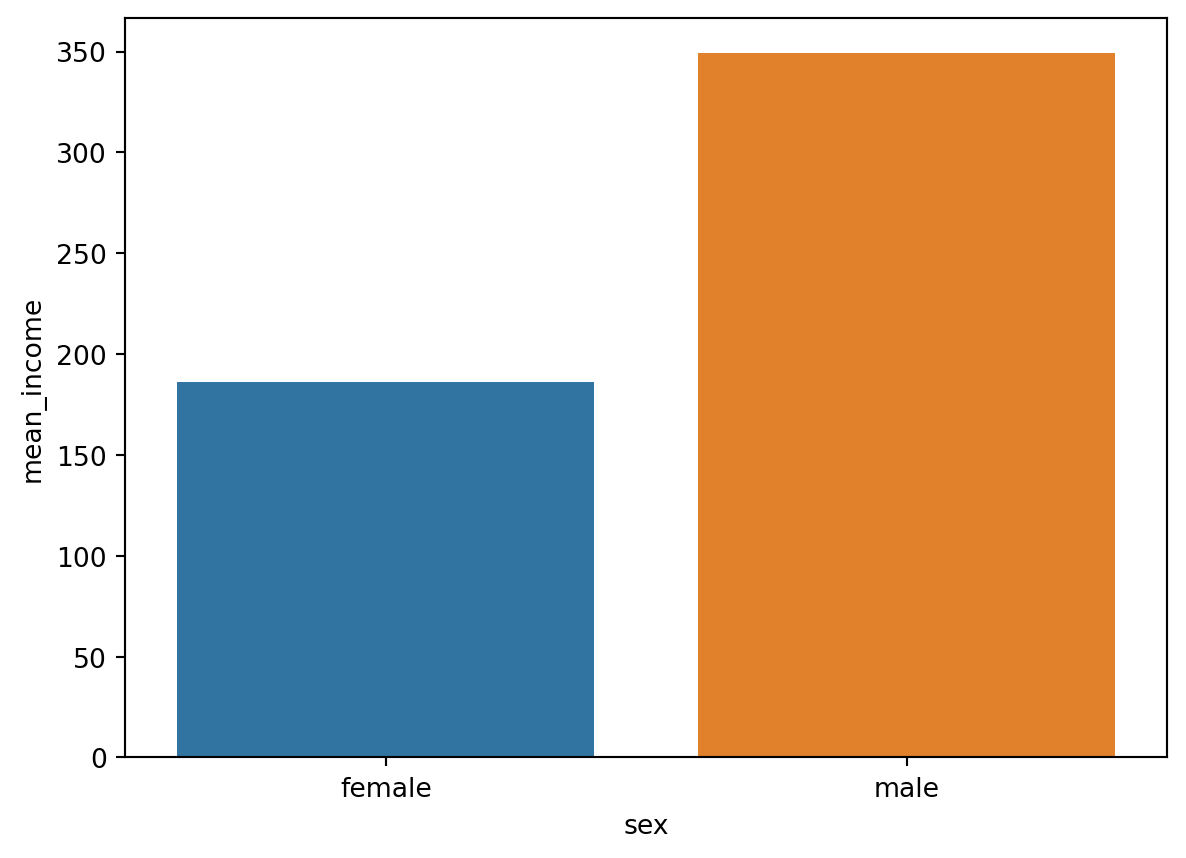
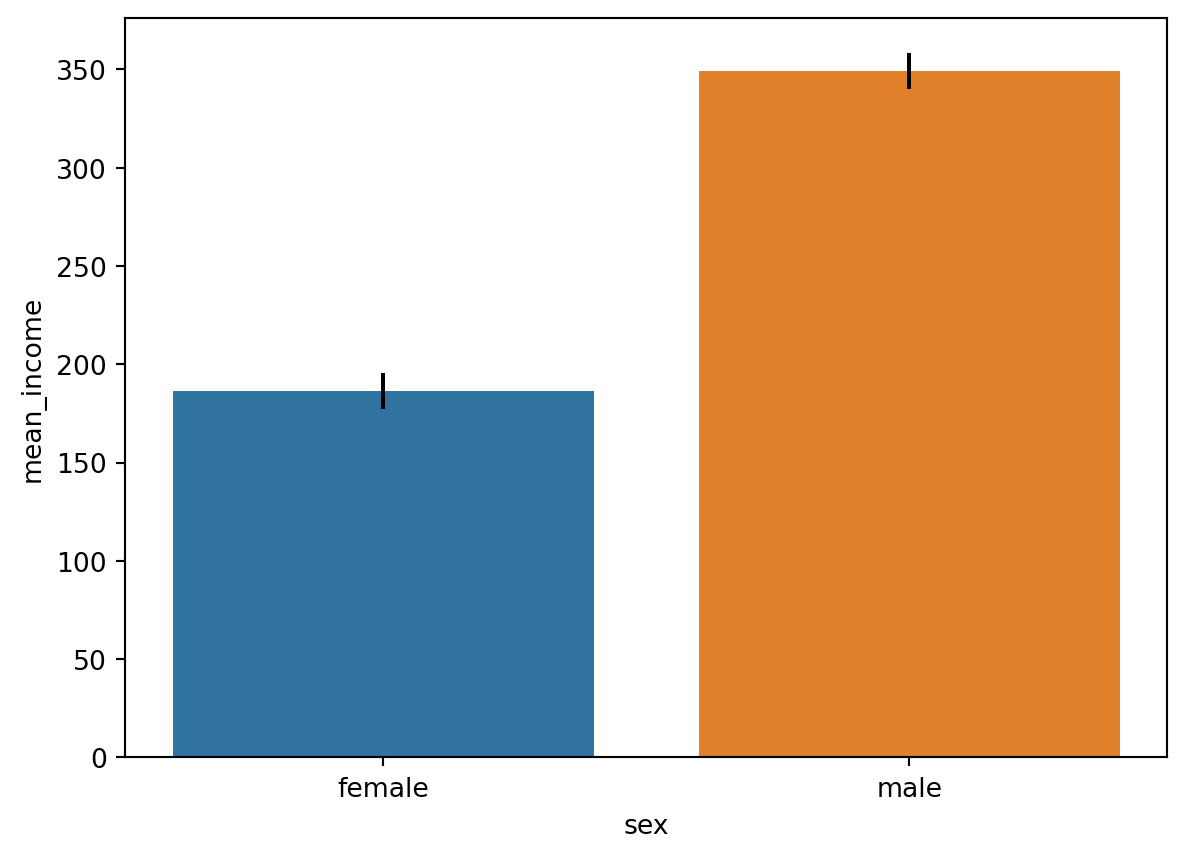
숙제에 신뢰구간 막대 표시

diff --git a/docs/posts/hw5/index.html b/docs/posts/hw5/index.html
@@ -59,7 +59,7 @@ pre > code.sourceCode > span > a:first-child::before { text-decoration: underlin
 </style>
 
 
-<script src="https://cdnjs.cloudflare.com/ajax/libs/jquery/3.5.1/jquery.min.js" integrity="sha512-bLT0Qm9VnAYZDflyKcBaQ2gg0hSYNQrJ8RilYldYQ1FxQYoCLtUjuuRuZo+fjqhx/qtq/1itJ0C2ejDxltZVFg==" crossorigin="anonymous"></script><script src="../../site_libs/quarto-nav/quarto-nav.js"></script>
+<script src="../../site_libs/quarto-nav/quarto-nav.js"></script>
 <script src="../../site_libs/quarto-nav/headroom.min.js"></script>
 <script src="../../site_libs/clipboard/clipboard.min.js"></script>
 <script src="../../site_libs/quarto-search/autocomplete.umd.js"></script>
@@ -102,12 +102,6 @@ pre > code.sourceCode > span > a:first-child::before { text-decoration: underlin
     "search-label": "Search"
   }
 }</script>
-<script src="https://cdnjs.cloudflare.com/ajax/libs/require.js/2.3.6/require.min.js" integrity="sha512-c3Nl8+7g4LMSTdrm621y7kf9v3SDPnhxLNhcjFJbKECVnmZHTdo+IRO05sNLTH/D3vA6u1X32ehoLC7WFVdheg==" crossorigin="anonymous"></script>
-
-
-
-<script type="application/javascript">define('jquery', [],function() {return window.jQuery;})</script>
-
 
 
 <link rel="stylesheet" href="../../styles.css">
@@ -200,7 +194,7 @@ pre > code.sourceCode > span > a:first-child::before { text-decoration: underlin
 
 
 
-<div id="d5b7b62e" class="cell" data-execution_count="1">
+<div id="4f84be93" class="cell" data-execution_count="1">
 <div class="sourceCode cell-code" id="cb1"><pre class="sourceCode python code-with-copy"><code class="sourceCode python"><span id="cb1-1"><a href="#cb1-1" aria-hidden="true" tabindex="-1"></a><span class="im">import</span> pandas <span class="im">as</span> pd</span>
 <span id="cb1-2"><a href="#cb1-2" aria-hidden="true" tabindex="-1"></a><span class="im">import</span> numpy <span class="im">as</span> np</span>
 <span id="cb1-3"><a href="#cb1-3" aria-hidden="true" tabindex="-1"></a><span class="im">import</span> seaborn <span class="im">as</span> sns</span>
@@ -269,7 +263,7 @@ memory usage: 91.3+ MB</code></pre>
 </div>
 <section id="위-그래프에서-각-성별-95-신뢰구간-계산-후-그리기위-아래-검성색-막대기로-표시" class="level1">
 <h1>위 그래프에서 각 성별 95% 신뢰구간 계산 후 그리기(위 아래 검성색 막대기로 표시)</h1>
-<div id="8426e405" class="cell" data-execution_count="2">
+<div id="bb97aacc" class="cell" data-execution_count="2">
 <div class="sourceCode cell-code" id="cb4"><pre class="sourceCode python code-with-copy"><code class="sourceCode python"><span id="cb4-1"><a href="#cb4-1" aria-hidden="true" tabindex="-1"></a><span class="co"># 표본 평균 구하기(income이 nan이 아닌 여자, 남자)</span></span>
 <span id="cb4-2"><a href="#cb4-2" aria-hidden="true" tabindex="-1"></a>x_var_F, x_var_M <span class="op">=</span> sex_income[<span class="st">'mean_income'</span>]</span>
 <span id="cb4-3"><a href="#cb4-3" aria-hidden="true" tabindex="-1"></a><span class="co"># 표본 갯수 구하기(income이 nan이 아닌 여자, 남자)</span></span>
@@ -284,7 +278,7 @@ memory usage: 91.3+ MB</code></pre>
 <span id="cb4-12"><a href="#cb4-12" aria-hidden="true" tabindex="-1"></a>se_M <span class="op">=</span> np.std(income_male, ddof<span class="op">=</span><span class="dv">1</span>) <span class="op">/</span> np.sqrt(n_M)</span>
 <span id="cb4-13"><a href="#cb4-13" aria-hidden="true" tabindex="-1"></a><span class="co"># 신뢰구간 95%</span></span>
 <span id="cb4-14"><a href="#cb4-14" aria-hidden="true" tabindex="-1"></a></span>
-<span id="cb4-15"><a href="#cb4-15" aria-hidden="true" tabindex="-1"></a><span class="co">## 방법1) 직접 계산산</span></span>
+<span id="cb4-15"><a href="#cb4-15" aria-hidden="true" tabindex="-1"></a><span class="co">## 방법1) 직접 계산</span></span>
 <span id="cb4-16"><a href="#cb4-16" aria-hidden="true" tabindex="-1"></a><span class="co"># from scipy.stats import norm</span></span>
 <span id="cb4-17"><a href="#cb4-17" aria-hidden="true" tabindex="-1"></a><span class="co"># z0025 = norm.ppf(0.975, loc=0, scale=1)</span></span>
 <span id="cb4-18"><a href="#cb4-18" aria-hidden="true" tabindex="-1"></a><span class="co"># ci_left_F = x_var_F - z0025 * se_F</span></span>
@@ -293,56 +287,27 @@ memory usage: 91.3+ MB</code></pre>
 <span id="cb4-21"><a href="#cb4-21" aria-hidden="true" tabindex="-1"></a><span class="co"># ci_right_M = x_var_M + z0025 * se_M</span></span>
 <span id="cb4-22"><a href="#cb4-22" aria-hidden="true" tabindex="-1"></a></span>
 <span id="cb4-23"><a href="#cb4-23" aria-hidden="true" tabindex="-1"></a><span class="co">## 방법2) scipy 함수쓰기</span></span>
-<span id="cb4-24"><a href="#cb4-24" aria-hidden="true" tabindex="-1"></a><span class="im">from</span> scipy.stats <span class="im">import</span> t</span>
-<span id="cb4-25"><a href="#cb4-25" aria-hidden="true" tabindex="-1"></a>ci_left_F,ci_right_F <span class="op">=</span> t.interval(<span class="fl">0.95</span>, loc<span class="op">=</span>x_var_F, scale<span class="op">=</span>se_F, df<span class="op">=</span>n_F<span class="op">-</span><span class="dv">1</span>)</span>
-<span id="cb4-26"><a href="#cb4-26" aria-hidden="true" tabindex="-1"></a>ci_left_M,ci_right_M <span class="op">=</span> t.interval(<span class="fl">0.95</span>, loc<span class="op">=</span>x_var_M, scale<span class="op">=</span>se_M, df<span class="op">=</span>n_M<span class="op">-</span><span class="dv">1</span>)</span>
-<span id="cb4-27"><a href="#cb4-27" aria-hidden="true" tabindex="-1"></a>sex_income[<span class="st">'ci_left'</span>] <span class="op">=</span> np.array([ci_left_F,ci_left_M])</span>
-<span id="cb4-28"><a href="#cb4-28" aria-hidden="true" tabindex="-1"></a>sex_income[<span class="st">'ci_right'</span>] <span class="op">=</span> np.array([ci_right_F,ci_right_M])</span>
+<span id="cb4-24"><a href="#cb4-24" aria-hidden="true" tabindex="-1"></a><span class="co"># from scipy.stats import t</span></span>
+<span id="cb4-25"><a href="#cb4-25" aria-hidden="true" tabindex="-1"></a><span class="co"># ci_left_F,ci_right_F = t.interval(0.95, loc=x_var_F, scale=se_F, df=n_F-1)</span></span>
+<span id="cb4-26"><a href="#cb4-26" aria-hidden="true" tabindex="-1"></a><span class="co"># ci_left_M,ci_right_M = t.interval(0.95, loc=x_var_M, scale=se_M, df=n_M-1)</span></span>
+<span id="cb4-27"><a href="#cb4-27" aria-hidden="true" tabindex="-1"></a><span class="co"># sex_income['ci_left'] = np.array([ci_left_F,ci_left_M])</span></span>
+<span id="cb4-28"><a href="#cb4-28" aria-hidden="true" tabindex="-1"></a><span class="co"># sex_income['ci_right'] = np.array([ci_right_F,ci_right_M])</span></span>
 <span id="cb4-29"><a href="#cb4-29" aria-hidden="true" tabindex="-1"></a></span>
-<span id="cb4-30"><a href="#cb4-30" aria-hidden="true" tabindex="-1"></a>sns.barplot(data<span class="op">=</span>sex_income, x<span class="op">=</span><span class="st">"sex"</span>, y<span class="op">=</span><span class="st">"mean_income"</span>, hue<span class="op">=</span><span class="st">"sex"</span>)</span>
-<span id="cb4-31"><a href="#cb4-31" aria-hidden="true" tabindex="-1"></a>plt.show()</span>
-<span id="cb4-32"><a href="#cb4-32" aria-hidden="true" tabindex="-1"></a>plt.clf()</span>
-<span id="cb4-33"><a href="#cb4-33" aria-hidden="true" tabindex="-1"></a></span>
-<span id="cb4-34"><a href="#cb4-34" aria-hidden="true" tabindex="-1"></a>sex_income</span></code><button title="Copy to Clipboard" class="code-copy-button"><i class="bi"></i></button></pre></div>
+<span id="cb4-30"><a href="#cb4-30" aria-hidden="true" tabindex="-1"></a><span class="co"># 평균에서 더하고 빼줄 95% 신뢰구간 (Errorbar에는 평균값빼고 그 다음항만 필요)</span></span>
+<span id="cb4-31"><a href="#cb4-31" aria-hidden="true" tabindex="-1"></a><span class="im">from</span> scipy.stats <span class="im">import</span> norm</span>
+<span id="cb4-32"><a href="#cb4-32" aria-hidden="true" tabindex="-1"></a>z0025 <span class="op">=</span> norm.ppf(<span class="fl">0.975</span>, loc<span class="op">=</span><span class="dv">0</span>, scale<span class="op">=</span><span class="dv">1</span>)</span>
+<span id="cb4-33"><a href="#cb4-33" aria-hidden="true" tabindex="-1"></a>ci_F <span class="op">=</span> z0025 <span class="op">*</span> se_F</span>
+<span id="cb4-34"><a href="#cb4-34" aria-hidden="true" tabindex="-1"></a>ci_M <span class="op">=</span> z0025 <span class="op">*</span> se_M</span>
+<span id="cb4-35"><a href="#cb4-35" aria-hidden="true" tabindex="-1"></a>sns.barplot(data<span class="op">=</span>sex_income, x<span class="op">=</span><span class="st">"sex"</span>, y<span class="op">=</span><span class="st">"mean_income"</span>, hue<span class="op">=</span><span class="st">"sex"</span>)</span>
+<span id="cb4-36"><a href="#cb4-36" aria-hidden="true" tabindex="-1"></a>plt.errorbar(x<span class="op">=</span>sex_income[<span class="st">'sex'</span>], y<span class="op">=</span>sex_income[<span class="st">'mean_income'</span>], yerr<span class="op">=</span>ci_F, fmt<span class="op">=</span><span class="st">'none'</span>, c<span class="op">=</span><span class="st">'k'</span>)</span>
+<span id="cb4-37"><a href="#cb4-37" aria-hidden="true" tabindex="-1"></a>plt.errorbar(x<span class="op">=</span>sex_income[<span class="st">'sex'</span>], y<span class="op">=</span>sex_income[<span class="st">'mean_income'</span>], yerr<span class="op">=</span>ci_M, fmt<span class="op">=</span><span class="st">'none'</span>, c<span class="op">=</span><span class="st">'k'</span>)</span>
+<span id="cb4-38"><a href="#cb4-38" aria-hidden="true" tabindex="-1"></a>plt.show()</span>
+<span id="cb4-39"><a href="#cb4-39" aria-hidden="true" tabindex="-1"></a>plt.clf()</span></code><button title="Copy to Clipboard" class="code-copy-button"><i class="bi"></i></button></pre></div>
 <div class="cell-output cell-output-display">
 <div>
 <figure class="figure">
 <p><img src="index_files/figure-html/cell-3-output-1.png" width="593" height="429" class="figure-img"></p>
 </figure>
-</div>
-</div>
-<div class="cell-output cell-output-display" data-execution_count="2">
-<div>
-
-
-<table class="dataframe caption-top table table-sm table-striped small" data-quarto-postprocess="true" data-border="1">
-<thead>
-<tr class="header">
-<th data-quarto-table-cell-role="th"></th>
-<th data-quarto-table-cell-role="th">sex</th>
-<th data-quarto-table-cell-role="th">mean_income</th>
-<th data-quarto-table-cell-role="th">ci_left</th>
-<th data-quarto-table-cell-role="th">ci_right</th>
-</tr>
-</thead>
-<tbody>
-<tr class="odd">
-<td data-quarto-table-cell-role="th">0</td>
-<td>female</td>
-<td>186.293096</td>
-<td>180.880349</td>
-<td>191.705843</td>
-</tr>
-<tr class="even">
-<td data-quarto-table-cell-role="th">1</td>
-<td>male</td>
-<td>349.037571</td>
-<td>340.020692</td>
-<td>358.054450</td>
-</tr>
-</tbody>
-</table>
-
 </div>
 </div>
 <div class="cell-output cell-output-display">

diff --git a/docs/blog.html b/docs/blog.html
@@ -202,7 +202,7 @@ window.Quarto = {
 
 <div class="quarto-listing quarto-listing-container-default" id="listing-listing">
 <div class="list quarto-listing-default">
-<div class="quarto-post image-right" data-index="0" data-categories="bigdata" data-listing-date-sort="1722265200000" data-listing-file-modified-sort="1722354506072" data-listing-date-modified-sort="NaN" data-listing-reading-time-sort="2" data-listing-word-count-sort="220">
+<div class="quarto-post image-right" data-index="0" data-categories="bigdata" data-listing-date-sort="1722265200000" data-listing-file-modified-sort="1722378626701" data-listing-date-modified-sort="NaN" data-listing-reading-time-sort="2" data-listing-word-count-sort="258">
 <div class="thumbnail">
 <p><a href="./posts/hw5/index.html" class="no-external"></a></p><a href="./posts/hw5/index.html" class="no-external">
 <p class="card-img-top"><img src="posts\hw5\index_files\figure-html\cell-2-output-2.png"  class="thumbnail-image card-img"/></p>

diff --git a/docs/index.html b/docs/index.html
@@ -159,7 +159,7 @@ pre > code.sourceCode > span > a:first-child::before { text-decoration: underlin
 <section id="홈페이지-첫-화면입니다." class="level3">
 <h3 data-anchor-id="홈페이지-첫-화면입니다.">홈페이지 첫 화면입니다.</h3>
 <p>안녕하세요. 블로그에 오신 것을 환영합니다.</p>
-<div id="a09c166c" class="cell" data-execution_count="1">
+<div id="5e682bff" class="cell" data-execution_count="1">
 <div class="sourceCode cell-code" id="cb1"><pre class="sourceCode python code-with-copy"><code class="sourceCode python"><span id="cb1-1"><a href="#cb1-1" aria-hidden="true" tabindex="-1"></a><span class="dv">1</span><span class="op">+</span><span class="dv">1</span></span></code><button title="Copy to Clipboard" class="code-copy-button"><i class="bi"></i></button></pre></div>
 <div class="cell-output cell-output-display" data-execution_count="1">
 <pre><code>2</code></pre>
